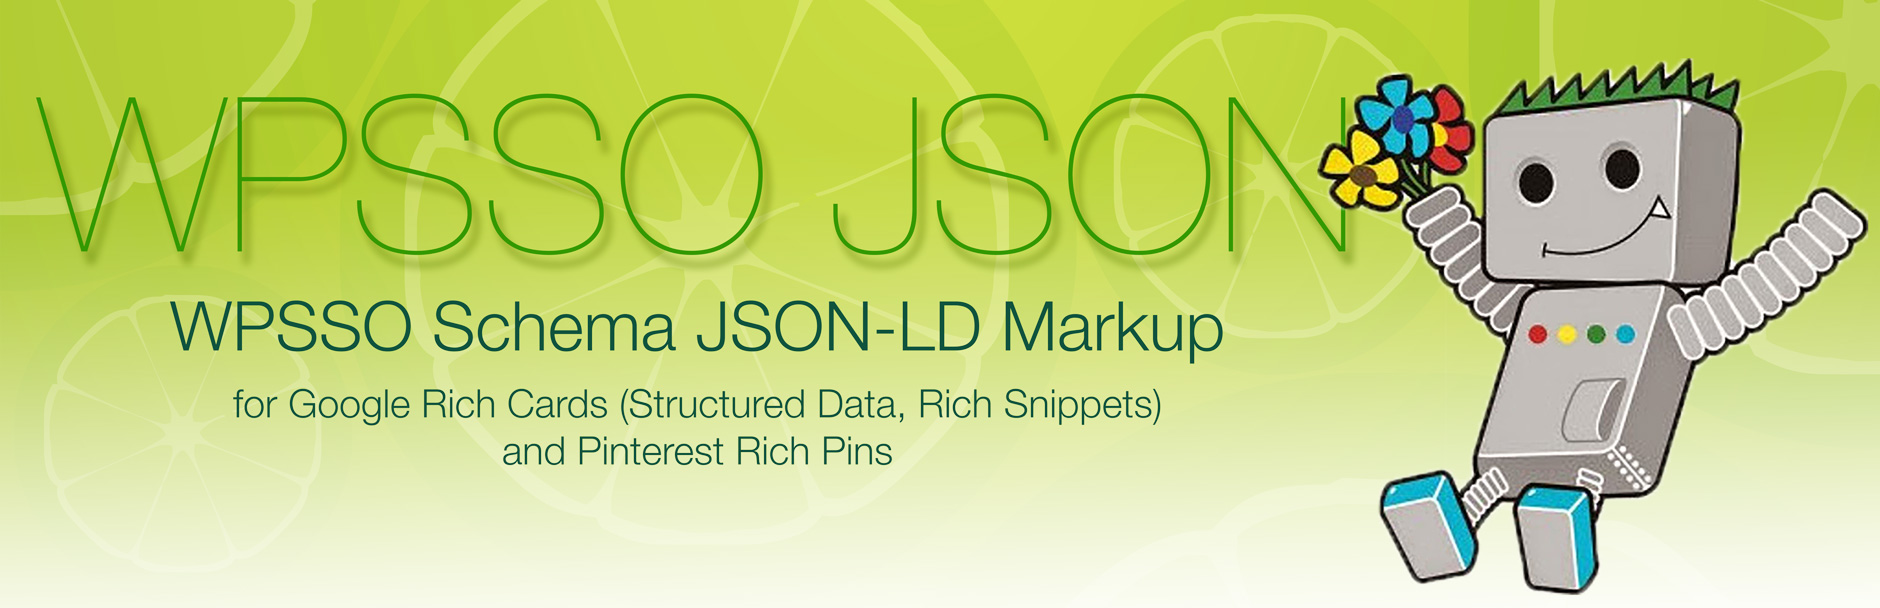
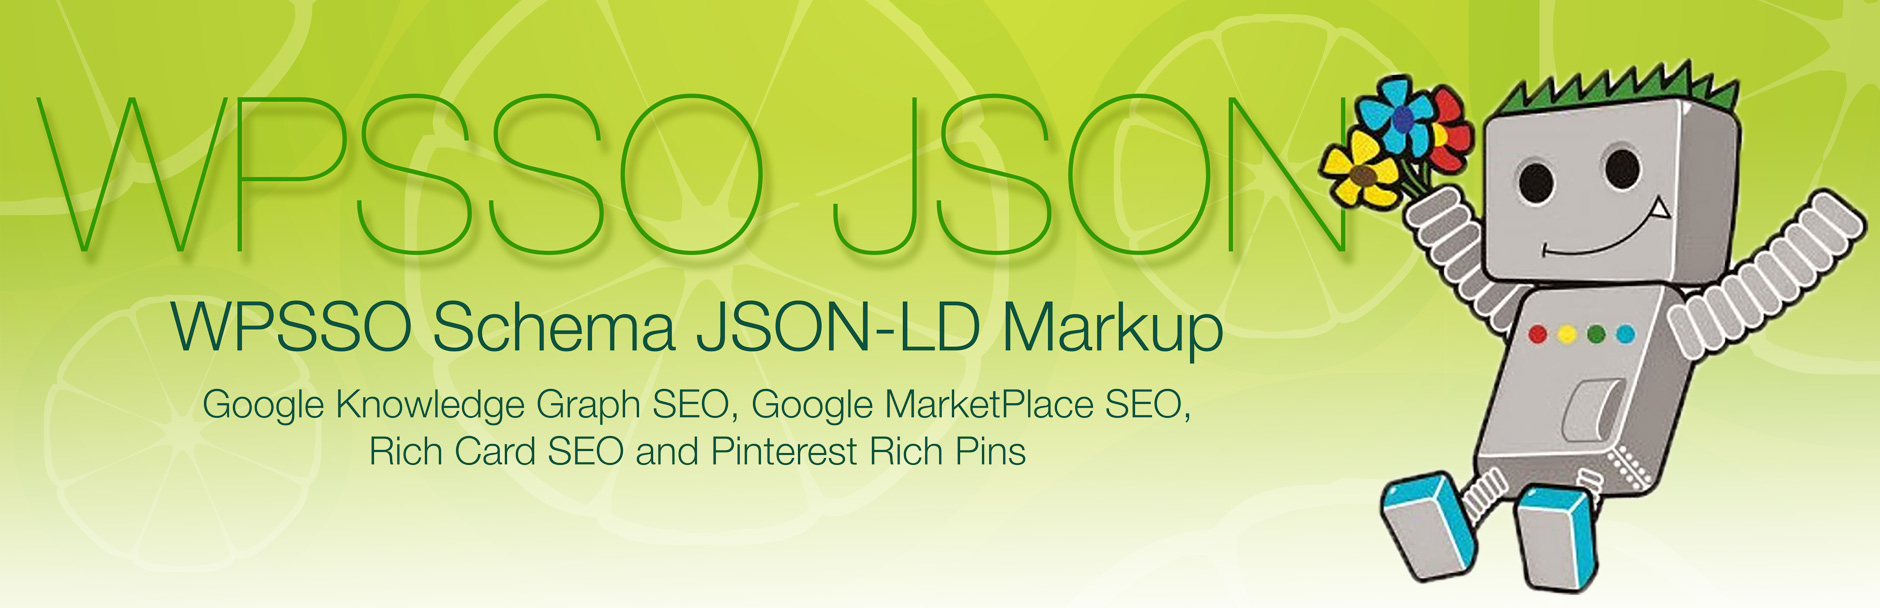
non-essential support files (documentation and assets)

Changed region(s): [[0.0926, 0.625, 0.6479, 0.6875], [0.1851, 0.7188, 0.5553, 0.7812]]

diff --git a/index.html b/index.html
@@ -25,7 +25,7 @@
         </ul>
       </header>
       <section>
-<h1>WPSSO Schema JSON-LD Markup for Google Rich Cards (Structured Data, Rich Snippets) and Pinterest Rich Pins</h1>
+<h1>WPSSO Schema JSON-LD Markup for Google Knowledge Graph, MarketPlace, Rich Card SEO and Pinterest Rich Pins</h1>
 
 <table>
 <tr><th align="right" valign="top" nowrap>Plugin Name</th><td>WPSSO Schema JSON-LD Markup</td></tr>
@@ -46,7 +46,7 @@
 
 <p>Including image SEO, video SEO, local business, organization, publisher, person, author and co-authors, extensive eCommerce product markup, product variations, product ratings, aggregate ratings, reviews, recipe information, event details, collection pages, profile pages, search pages, item lists for Google's mobile carousel, customized property values, and much, much more (see the complete list of features below for Free / Pro version details).</p>
 
-<p><strong>Provides Schema markup for posts, pages, custom post types, AMP pages, terms (category, tags, etc.), user pages, search result pages, etc.</strong></p>
+<p><strong>Provides Schema JSON-LD markup for posts, pages, custom post types, AMP pages, terms (category, tags, etc.), user pages, search result pages, etc.</strong></p>
 
 <p><strong>Most complete Schema product markup for WooCommerce (Pro version):</strong></p>
 
@@ -68,7 +68,7 @@
 
 <ul>
 <li><p>Extends the features of the WPSSO Core Free or Pro plugin.</p></li>
-<li><p>Provides Schema / Structured Data / SEO JSON-LD markup for the following Schema types (all other Schema types are available in the Pro version):</p>
+<li><p>Provides Schema JSON-LD markup (aka Structured Data) for the following Schema types (other Schema types are available in the Pro version):</p>
 
 <ul>
 <li><a href="https://schema.org/BlogPosting">schema.org/BlogPosting</a></li>
@@ -149,7 +149,7 @@
 
 <ul>
 <li><p>Extends the features of WPSSO Core Pro (requires an active and licensed <a href="https://wpsso.com/">WPSSO Core Pro plugin</a>).</p></li>
-<li><p>Provides Schema / Structured Data / SEO JSON-LD markup for <em>all Schema types and sub-types</em>, including <a href="https://schema.org/ItemList">schema.org/ItemList</a> for Google's mobile carousel feature:</p>
+<li><p>Provides Schema JSON-LD markup (aka Structured Data) for <em>all Schema types and sub-types</em>, including <a href="https://schema.org/ItemList">schema.org/ItemList</a> for Google's mobile carousel feature:</p>
 
 <ul>
 <li><a href="https://schema.org/Article">schema.org/Article</a> (includes 8 Schema types)</li>
